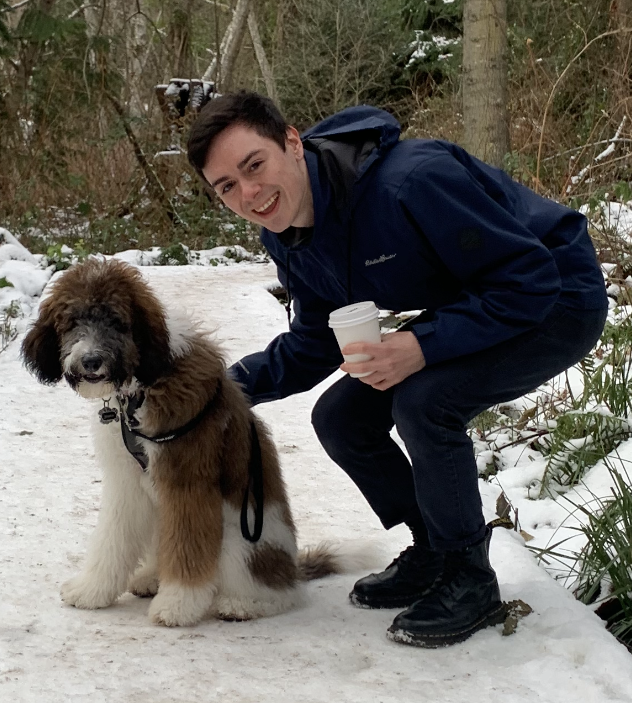
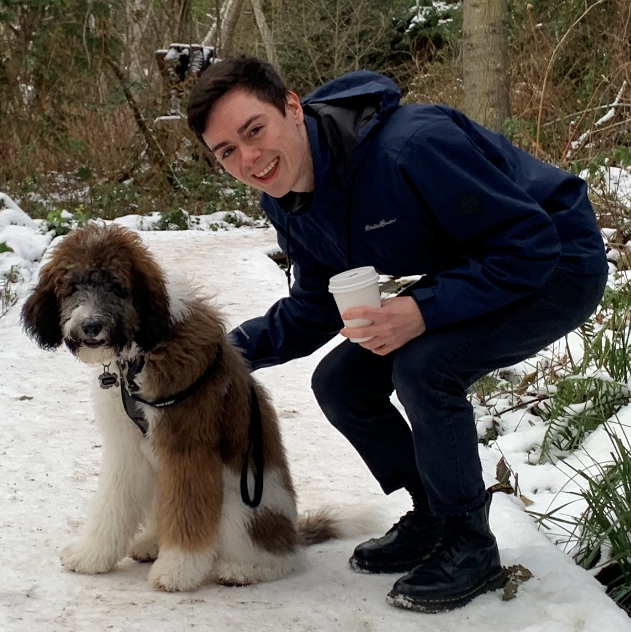
Refactored images to be same size, added to team page, added team bios

diff --git a/client/templates/team.html b/client/templates/team.html
@@ -14,10 +14,14 @@ Team
         <!-- Brooks info -->
         <div class="col-lg">
             <div class="card mb-3">
-                <img class="card-img-top" src="static/img/logo.png" alt="Brooks">
+                <img class="card-img-top" src="static/img/brooks.jpg" alt="Brooks">
                 <div class="card-body">
                   <h5 class="card-title">Brooks Burns</h5>
-                  <p class="card-text">This is the write-up for Brooks...</p>
+                  <p class="card-text">
+                      <b>Favorite Song:</b> Shadows of Tomorrow by Madvillain feat. Quasimoto<br>
+                      <b>Genre:</b> Hip Hop<br>
+                      <b>Model's Guess:</b> Hip Hop
+                  </p>
 
                 </div>
             </div>
@@ -29,7 +33,11 @@ Team
                 <img class="card-img-top" src="static/img/noah.png" alt="Noah">
                 <div class="card-body">
                   <h5 class="card-title">Noah Lopez</h5>
-                  <p class="card-text">This is the write-up for Noah...</p>
+                  <p class="card-text">
+                      <b>Favorite Song:</b> Broken Clocks by SZA<br>
+                      <b>Genre:</b> R&B<br>
+                      <b>Model's Guess:</b> Hip Hop
+                  </p>
                 </div>
             </div>
         </div>
@@ -37,10 +45,14 @@ Team
         <!-- Amin info -->
         <div class="col-lg">
             <div class="card mb-3">
-                <img class="card-img-top" src="static/img/logo.png" alt="Amin">
+                <img class="card-img-top" src="static/img/amin.JPG" alt="Amin">
                 <div class="card-body">
                   <h5 class="card-title">Amin Malik</h5>
-                  <p class="card-text">This is the write-up for Amin...</p>
+                  <p class="card-text">
+                      <b>Favorite Song:</b> Die Hard by Kendrick Lamar ft. Blxst & Amanda Reifer<br>
+                      <b>Genre:</b> Hip Hop<br>
+                      <b>Model's Guess:</b> Electronic
+                  </p>
                 </div>
             </div>
         </div>
@@ -48,10 +60,14 @@ Team
         <!-- Sydney info -->
         <div class="col-lg">
             <div class="card mb-3">
-                <img class="card-img-top" src="static/img/logo.png" alt="Sydney">
+                <img class="card-img-top" src="static/img/Sydney.JPG" alt="Sydney">
                 <div class="card-body">
                   <h5 class="card-title">Sydney Somerfield</h5>
-                  <p class="card-text">This is the write-up for Sydney...</p>
+                  <p class="card-text">
+                      <b>Favorite Song:</b> Tell Your Story Walking by Deb Talan<br>
+                      <b>Genre:</b> Folk<br>
+                      <b>Model's Guess:</b> Folk
+                  </p>
                 </div>
             </div>
         </div>

diff --git a/client/static/css/style.css b/client/static/css/style.css
@@ -33,6 +33,11 @@ body {
     background-color: #ECECEC;
 }
 
+.card-img-top {
+    width: 100%;
+    object-fit: cover;
+}
+
 
 /* Dashboard css */
 
